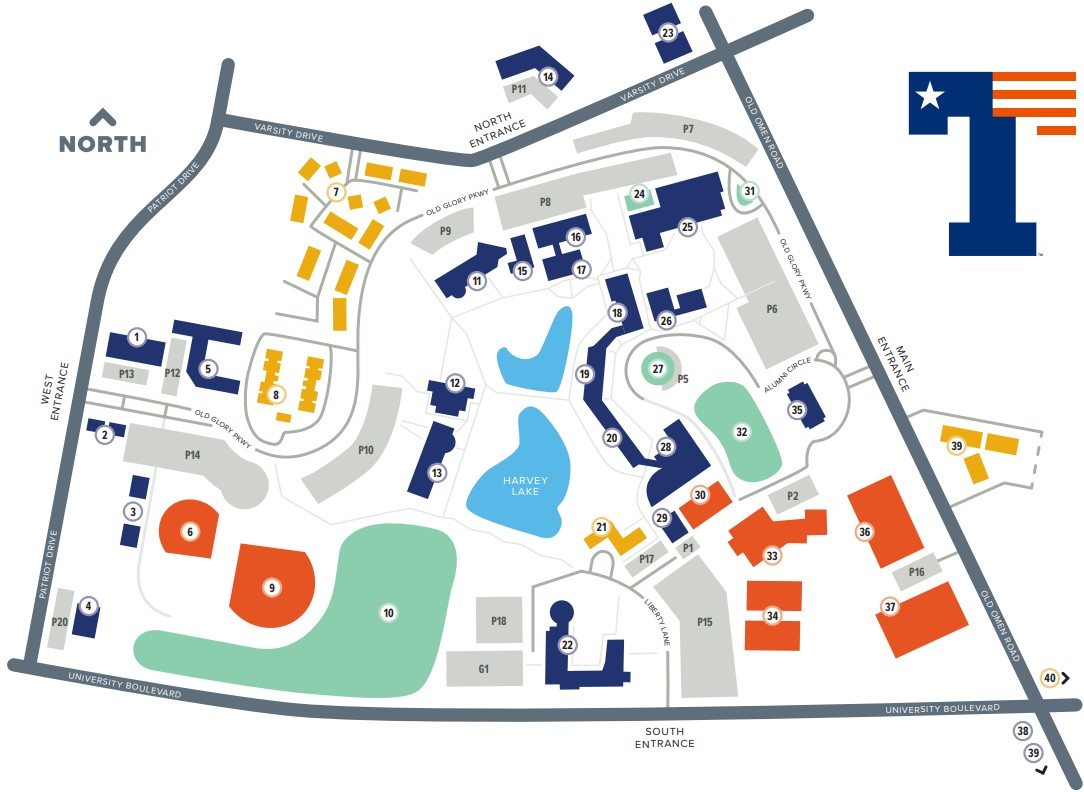
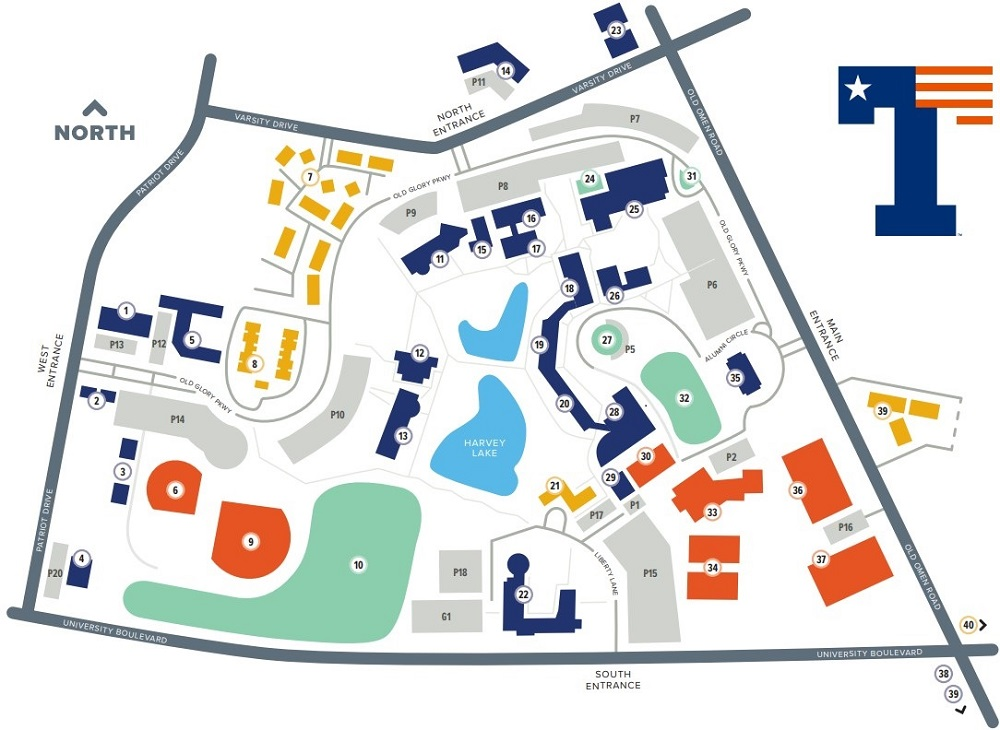
parking buton

Changed region(s): [[0.93, 0.0904, 0.992, 0.1507], [0.589, 0.9342, 0.62, 0.9644], [0.434, 0.1507, 0.465, 0.1808]]

diff --git a/lib/resources/parking_data.dart b/lib/resources/parking_data.dart
@@ -8,6 +8,13 @@ List<ParkingLot> tempLots = [
     name: 'Lot18',
     width: 700,
     height: 800,
+    mapX: 460 - 20,
+    mapY: 672 + 15,
+    mapR: 20,
+    buttonList: [
+      [439, 685, 43, 43, 0],
+      [439, 695],
+    ],
     roadPath: [
       [100, 800, 100, 425],
       // vertical road next to handicap
@@ -32,6 +39,14 @@ List<ParkingLot> tempLots = [
     name: 'Lot15',
     width: 1300,
     height: 1000,
+    mapX: 0,
+    mapY: 0,
+    mapR: 10,
+    buttonList: [
+      [602, 675, 55, 43, -35],
+      [620, 683, 52, 100, -6],
+      [625, 700]
+    ],
     roadPath: [
       [1300, 900, 75, 900], //entrance into Soules College
       [75, 900, 37, 930], // to make curve 1
@@ -59,22 +74,47 @@ List<ParkingLot> tempLots = [
     name: 'Lot9',
     width: 2000,
     height: 2000,
-    roadPath: [[]],
+    mapX: 0,
+    mapY: 0,
+    mapR: 10,
+    buttonList: [
+      [378, 360, 10, 26, -60],
+      [383, 351.5, 20, 25, -40],
+      [398, 339, 12, 25, -30],
+      [408, 333, 20, 25, -20],
+      [427, 326, 10, 26, 0],
+      [378, 360],
+    ],
+    roadPath: [],
   ),
   const ParkingLot(
-      name: 'Lot14',
-      width: 2000,  //changed to 2000 11/2/2022
-      height: 1000,
-      roadPath: []),
+    name: 'Lot14',
+    width: 2000, //changed to 2000 11/2/2022
+    height: 1000,
+    mapX: 0,
+    mapY: 0,
+    mapR: 10,
+    buttonList: [
+      [120, 525, 90, 40, 10],
+    ],
+    roadPath: [],
+  ),
   const ParkingLot(
-      name: 'Lot10',
-      width: 1200,
-      height: 2200,
-      roadPath: []),
-    const ParkingLot(
+    name: 'Lot10',
+    width: 1200,
+    height: 2200,
+    mapX: 0,
+    mapY: 0,
+    mapR: 10,
+    roadPath: [],
+  ),
+  const ParkingLot(
     name: 'Lot7',
     width: 2800,
     height: 1500,
+    mapX: 0,
+    mapY: 0,
+    mapR: 10,
     roadPath: [],
   ),
   //10/16/2022 added lot15 parkinglot
@@ -322,8 +362,9 @@ List<ParkingSpace> tempSpaces = [
   ...tempRow('Lot9', 884, 1460, 1, 90, 1),
   ...tempRow('Lot9', 864, 1435, 1, 90, 1, type: SpaceType.handicapR),
   ...tempRow('Lot9', 844, 1400, 1, 90, 1, type: SpaceType.handicapL),
-  
-   ...createSpaceRow(       //Fixed conflict, data for lot14 had different parameter order, 11/3/2022
+
+  ...createSpaceRow(
+    //Fixed conflict, data for lot14 had different parameter order, 11/3/2022
     lot: 'Lot14',
     x: 975,
     y: 700,
@@ -334,15 +375,15 @@ List<ParkingSpace> tempSpaces = [
     gaps: [15, 16],
   ),
 
-    ...tempRow(
-      'Lot14',
-      325,
-      700,
-      10,
-      0,
-      1,
-    ),
-    ...createSpaceRow(
+  ...tempRow(
+    'Lot14',
+    325,
+    700,
+    10,
+    0,
+    1,
+  ),
+  ...createSpaceRow(
     lot: 'Lot14',
     x: 1000,
     y: 500,
@@ -352,7 +393,7 @@ List<ParkingSpace> tempSpaces = [
     fixedR: -1.5,
     gaps: [6, 7],
   ),
-    ...createSpaceRow(
+  ...createSpaceRow(
     lot: 'Lot14',
     x: 675,
     y: 700,
@@ -362,7 +403,7 @@ List<ParkingSpace> tempSpaces = [
     fixedR: 0,
     gaps: [],
   ),
-    ...createSpaceRow(
+  ...createSpaceRow(
     lot: 'Lot14',
     x: 700,
     y: 500,
@@ -372,24 +413,24 @@ List<ParkingSpace> tempSpaces = [
     fixedR: 0,
     gaps: [],
   ),
-    ...tempRow('Lot14', 300, 500, 8, 0, 0), 
-    ...tempRow('Lot14', 300, 700, 1, 0, 1, type: SpaceType.handicapL),
-    ...tempRow('Lot14', 500, 500, 1, 0, 0, type: SpaceType.handicapR),
-    ...tempRow(
-      'Lot14',
-      535,
-      500,
-      2,
-      0,
-      0,
-    ),
-    ...tempRow('Lot14', 500, 500, 1, 0, 0, type: SpaceType.handicapR),
-    ...tempRow('Lot14', 1385, 413, 1, 337, 0, type: SpaceType.handicapR),
-    ...tempRow('Lot14', 1418, 400, 1, 335, 0, type: SpaceType.handicapL),
-    ...tempRow('Lot14', 1450, 384, 1, 333, 0, type: SpaceType.handicapL),
-    ...tempRow('Lot14', 1480, 366, 1, 330, 0, type: SpaceType.handicapL),
-  
-    ...createSpaceRow(
+  ...tempRow('Lot14', 300, 500, 8, 0, 0),
+  ...tempRow('Lot14', 300, 700, 1, 0, 1, type: SpaceType.handicapL),
+  ...tempRow('Lot14', 500, 500, 1, 0, 0, type: SpaceType.handicapR),
+  ...tempRow(
+    'Lot14',
+    535,
+    500,
+    2,
+    0,
+    0,
+  ),
+  ...tempRow('Lot14', 500, 500, 1, 0, 0, type: SpaceType.handicapR),
+  ...tempRow('Lot14', 1385, 413, 1, 337, 0, type: SpaceType.handicapR),
+  ...tempRow('Lot14', 1418, 400, 1, 335, 0, type: SpaceType.handicapL),
+  ...tempRow('Lot14', 1450, 384, 1, 333, 0, type: SpaceType.handicapL),
+  ...tempRow('Lot14', 1480, 366, 1, 330, 0, type: SpaceType.handicapL),
+
+  ...createSpaceRow(
     lot: 'Lot7',
     x: 1750,
     y: 1400,
@@ -461,7 +502,6 @@ List<ParkingSpace> tempSpaces = [
       13,
       14,
       15,
-      
       28,
       29,
       30,
@@ -496,7 +536,6 @@ List<ParkingSpace> tempSpaces = [
       12,
       13,
       14,
-
       28,
       29,
       30,
@@ -509,15 +548,12 @@ List<ParkingSpace> tempSpaces = [
       37,
       38,
       39,
-      
-      
       42,
       43,
       44,
       45,
       46,
       47,
-      
     ],
   ),
 

diff --git a/lib/models/campus_map.dart b/lib/models/campus_map.dart
@@ -1,7 +1,10 @@
+import 'dart:math';
+
 import 'package:flutter/material.dart';
 import 'package:patriots_parking/models/parking_lot.dart';
 import 'package:patriots_parking/resources/app_state.dart';
 import 'package:patriots_parking/resources/locator.dart';
+import 'package:patriots_parking/resources/parking_data.dart';
 
 class CampusMap extends StatelessWidget {
   const CampusMap({Key? key}) : super(key: key);
@@ -16,37 +19,70 @@ class CampusMap extends StatelessWidget {
           image: AssetImage('assets/uttylerMap.jpg'),
           fit: BoxFit.contain,
         ),
-        for (ParkingLot lot in locator.get<AppState>().parkingLots) ...[
-          ParkingButton(x: lot.mapX, y: lot.mapY, name: lot.name)
-        ]
+        for (ParkingLot lot in tempLots) ...[
+          for (List<num> data in lot.buttonList) ...[
+            ParkingButton1(name: lot.name, data: data),
+          ]
+        ],
       ],
     );
   }
 }
 
-class ParkingButton extends StatelessWidget {
-  final num? x;
-  final num? y;
+class ParkingButton1 extends StatelessWidget {
   final String name;
-  final double radius;
-  const ParkingButton({
-    this.x = 0,
-    this.y = 0,
+  final List<num> data;
+  const ParkingButton1({
     required this.name,
-    this.radius = 25,
+    required this.data,
     Key? key,
   }) : super(key: key);
 
   @override
   Widget build(BuildContext context) {
     return Positioned(
+      left: data[0].toDouble(),
+      top: data[1].toDouble(),
+      child: data.length == 5
+          ? Transform.rotate(
+              alignment: Alignment.topLeft,
+              angle: data[4].toDouble() / 180 * pi,
+              child: Container(
+                width: data[2].toDouble(),
+                height: data[3].toDouble(),
+                color: const Color.fromARGB(98, 128, 0, 0),
+              ),
+            )
+          : Text(name),
+    );
+  }
+}
+
+class ParkingButton extends StatelessWidget {
+  final String name;
+  final double x;
+  final double y;
+  final double r;
+  const ParkingButton({
+    required this.name,
+    this.x = 0,
+    this.y = 0,
+    this.r = 0,
+    Key? key,
+  }) : super(key: key);
+
+  @override
+  Widget build(BuildContext context) {
+    return Positioned(
+      left: x,
+      top: y,
       child: GestureDetector(
         onTap: () => locator
             .get<AppState>()
             .setLot(locator.get<AppState>().getLotByName(name)),
         child: Container(
-          width: radius * 2,
-          height: radius * 2,
+          width: r * 2,
+          height: r * 2,
           decoration: const BoxDecoration(
             color: Colors.orange,
             shape: BoxShape.circle,

diff --git a/lib/models/parking_lot.dart b/lib/models/parking_lot.dart
@@ -11,18 +11,20 @@ class ParkingLot extends StatelessWidget {
   final String name;
   final num width;
   final num height;
-  final num? mapX;
-  final num? mapY;
-  final num? mapR;
+  final num mapX;
+  final num mapY;
+  final num mapR;
+  final List<List<num>> buttonList;
   final List<List<num>> roadPath;
   const ParkingLot({
     this.id = '',
     required this.name,
     required this.width,
     required this.height,
-    this.mapX,
-    this.mapY,
-    this.mapR,
+    required this.mapX,
+    required this.mapY,
+    required this.mapR,
+    this.buttonList = const [],
     this.roadPath = const [],
     super.key,
   });
@@ -37,6 +39,7 @@ class ParkingLot extends StatelessWidget {
       'mapX': mapX,
       'mapY': mapY,
       'mapR': mapR,
+      'buttonList': buttonList,
       'roadPath': roadPath,
     };
   }
@@ -51,6 +54,7 @@ class ParkingLot extends StatelessWidget {
       mapX: json['mapX'],
       mapY: json['mapY'],
       mapR: json['mapR'],
+      buttonList: json['buttonList'] ?? [],
       roadPath: json['roadPath'] ?? [],
     );
   }

diff --git a/lib/resources/firebase/firestore_methods.dart b/lib/resources/firebase/firestore_methods.dart
@@ -15,6 +15,8 @@ class FirestoreMethods {
 
 // subscripe to database collections
   Future<void> initializeSubscriptions() async {
+    locator.get<AppState>().onParkingLotsChanged([]);
+    locator.get<AppState>().onParkingSpacesChanged([]);
     _parkingLotsSubscription = _firestoreService
         .collectionStream(
             path: '/parkingLots', builder: (data) => ParkingLot.fromJson(data))
